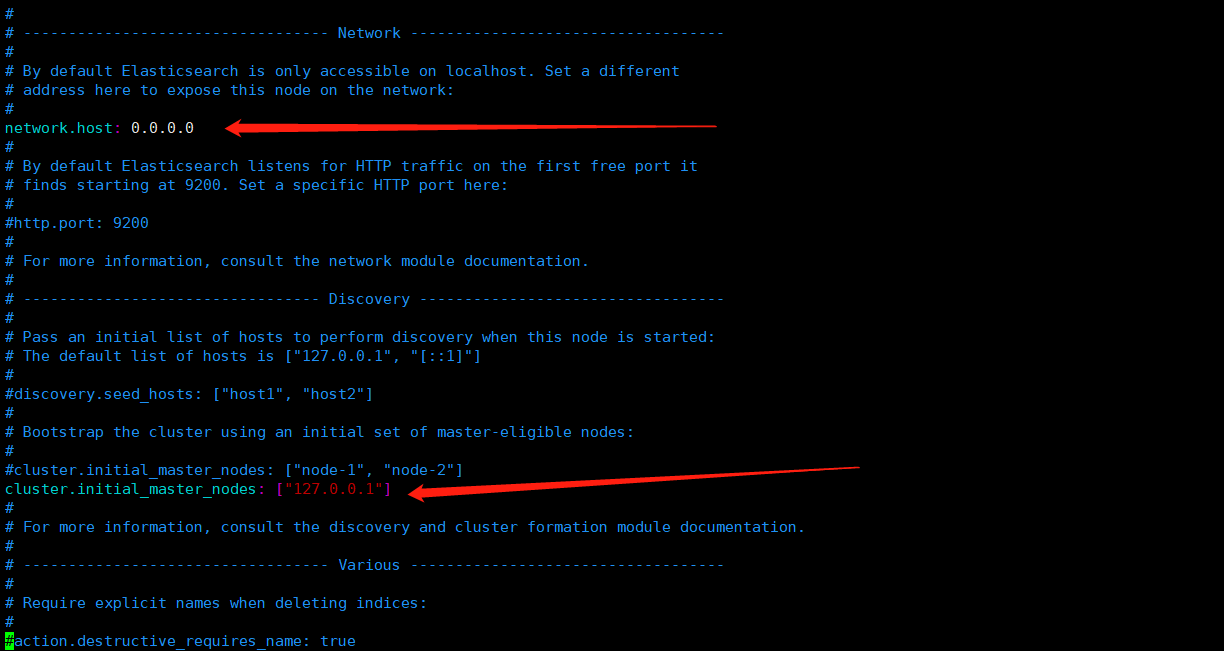
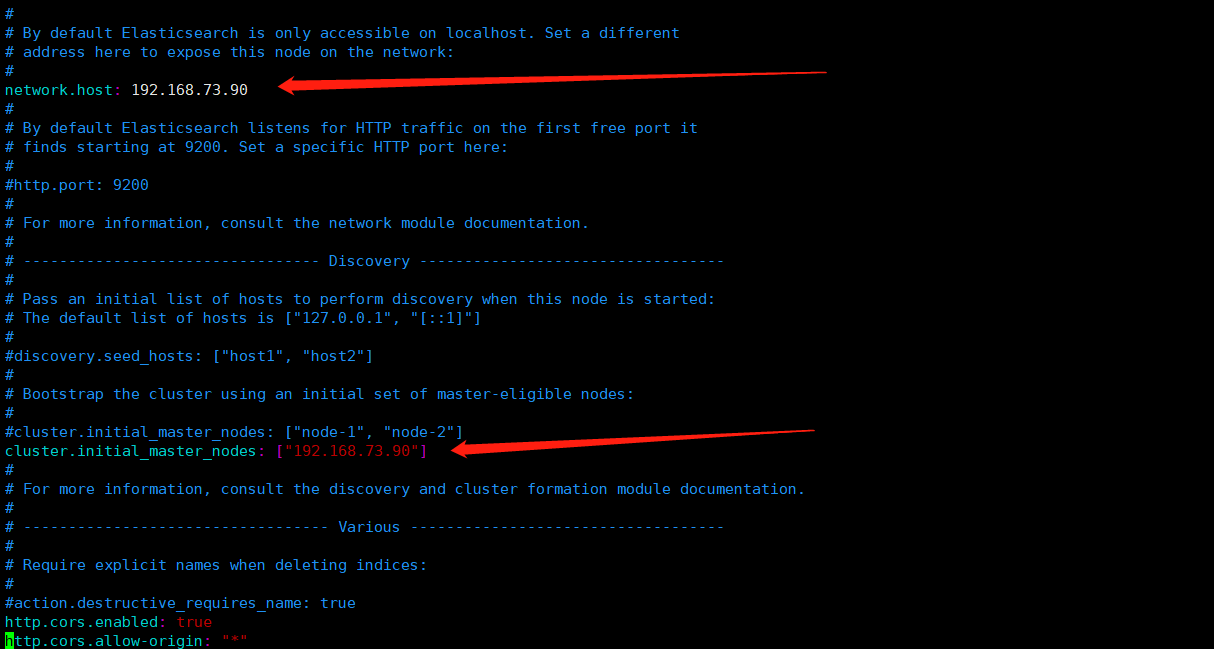
ES配置

Changed region(s): [[0.0, 0.1849, 0.701, 1.0], [0.0, 0.0308, 0.6705, 0.1541]]

diff --git a/LearningNotes/ES/01.ES基础概念以及安装/README.md b/LearningNotes/ES/01.ES基础概念以及安装/README.md
@@ -126,8 +126,8 @@ chown -R esuser /usr/local/soft 给账户赋予目录权限
 进入conf目录，修改
 vi /usr/local/soft/es/elasticsearch-7.13.2/config/elasticsearch.yml
 修改配置：
-network.host: 0.0.0.0 //代表允许所有ip访问
-cluster.initial_master_nodes: ["127.0.0.1"] //绑定服务器ip
+network.host: 192.168.73.90 //配置向外暴露的ip。0.0.0.0代表允许所有ip访问
+cluster.initial_master_nodes:["192.168.73.90"]//配置master节点。es集群必须有master节点
 ```
 
 ![image-20210821210223288](images/安装问题-config-1.png)
@@ -152,6 +152,14 @@ cluster.initial_master_nodes: ["127.0.0.1"] //绑定服务器ip
 2. Linux访问
 
    ![image-20210821211522339](images/linux访问测试-1.png)
+   
+3. 如果访问不了，关闭防火墙
+
+   ```
+   >>>关闭防火墙
+   systemctl stop firewalld.service            #停止firewall
+   systemctl disable firewalld.service        #禁止firewall开机启动
+   ```
 
 #### 3、普遍遇到的问题
 
@@ -215,15 +223,24 @@ http.cors.allow-origin: "*"
 
 ### 2.4、常用配置
 
-- 
+- Cluster&Node
 
   ```yaml
-  cluster.name: 
+  cluster.name:
   	配置elasticsearch的集群名称，默认是elasticsearch。建议修改成一个有意义的名称。
   node.name:
-  	节点名，通常一台物理服务器就是一个节点，es会默认随机指定一个名字，建议指定一个有意义的名称，方便管理
-  	一个或多个节点组成一个cluster集群，集群是一个逻辑的概念，节点是物理概念，后边章节会详细介绍。
-  path.conf: 
+  	节点名，通常一台物理服务器就是一个节点，es会默认随机指定一个名字，建议指定一个有意义的名称，方便管理。
+  	一个或多个节点组成一个cluster集群，集群是一个逻辑的概念，节点是物理概念。
+  node.master: 
+  	指定该节点是否有资格被选举成为master结点，默认是true，如果原来的master宕机会重新选举新的master。
+  node.data: 
+  	指定该节点是否存储索引数据，默认为true。
+  ```
+  
+- Paths
+
+  ```yaml
+  path.conf:
   	设置配置文件的存储路径，tar或zip包安装默认在es根目录下的config文件夹，rpm安装默认在/etc/ elasticsearch
   path.data:
   	设置索引数据的存储路径，默认是es根目录下的data文件夹，可以设置多个存储路径，用逗号隔开。
@@ -231,17 +248,36 @@ http.cors.allow-origin: "*"
   	设置日志文件的存储路径，默认是es根目录下的logs文件夹
   path.plugins: 
   	设置插件的存放路径，默认是es根目录下的plugins文件夹
+  ```
+  
+- Memory
+
+  ```yaml
   bootstrap.memory_lock: true
-  	设置为true可以锁住ES使用的内存，避免内存与swap分区交换数据。
+  	设置为true可以锁住ES使用的内存，避免内存与swap分区交换数据。swap分区速度会非常慢。
+  ```
+  
+- Network
+
+  ```yaml
   network.host: 
   	设置绑定主机的ip地址，设置为0.0.0.0表示绑定任何ip，允许外网访问，生产环境建议设置为具体的ip。
   http.port: 9200
   	设置对外服务的http端口，默认为9200。
   transport.tcp.port: 9300  集群结点之间通信端口
-  node.master: 
-  	指定该节点是否有资格被选举成为master结点，默认是true，如果原来的master宕机会重新选举新的master。
-  node.data: 
-  	指定该节点是否存储索引数据，默认为true。
+  http.cors.enabled: 
+      是否允许跨域
+  http.cors.allow-origin: 
+      "*"
+  ```
+  
+- Discovery
+
+  ```yaml
+  discovery.seed_hosts:
+      配置所有node.master为true的节点。
+  cluster.initial_master_nodes: 
+      设置初始master是哪个节点，启动服务后可以自动生效，省略选举过程，推荐配置集群中的仅master节点
   discovery.zen.ping.unicast.hosts: ["host1:port", "host2:port", "..."]
   	设置集群中master节点的初始列表。
   discovery.zen.ping.timeout: 3s
@@ -251,5 +287,5 @@ http.cors.allow-origin: "*"
   node.max_local_storage_nodes: 
   	单机允许的最大存储结点数，通常单机启动一个结点建议设置为1，开发环境如果单机启动多个节点可设置大于1。
   ```
-
+  
   
